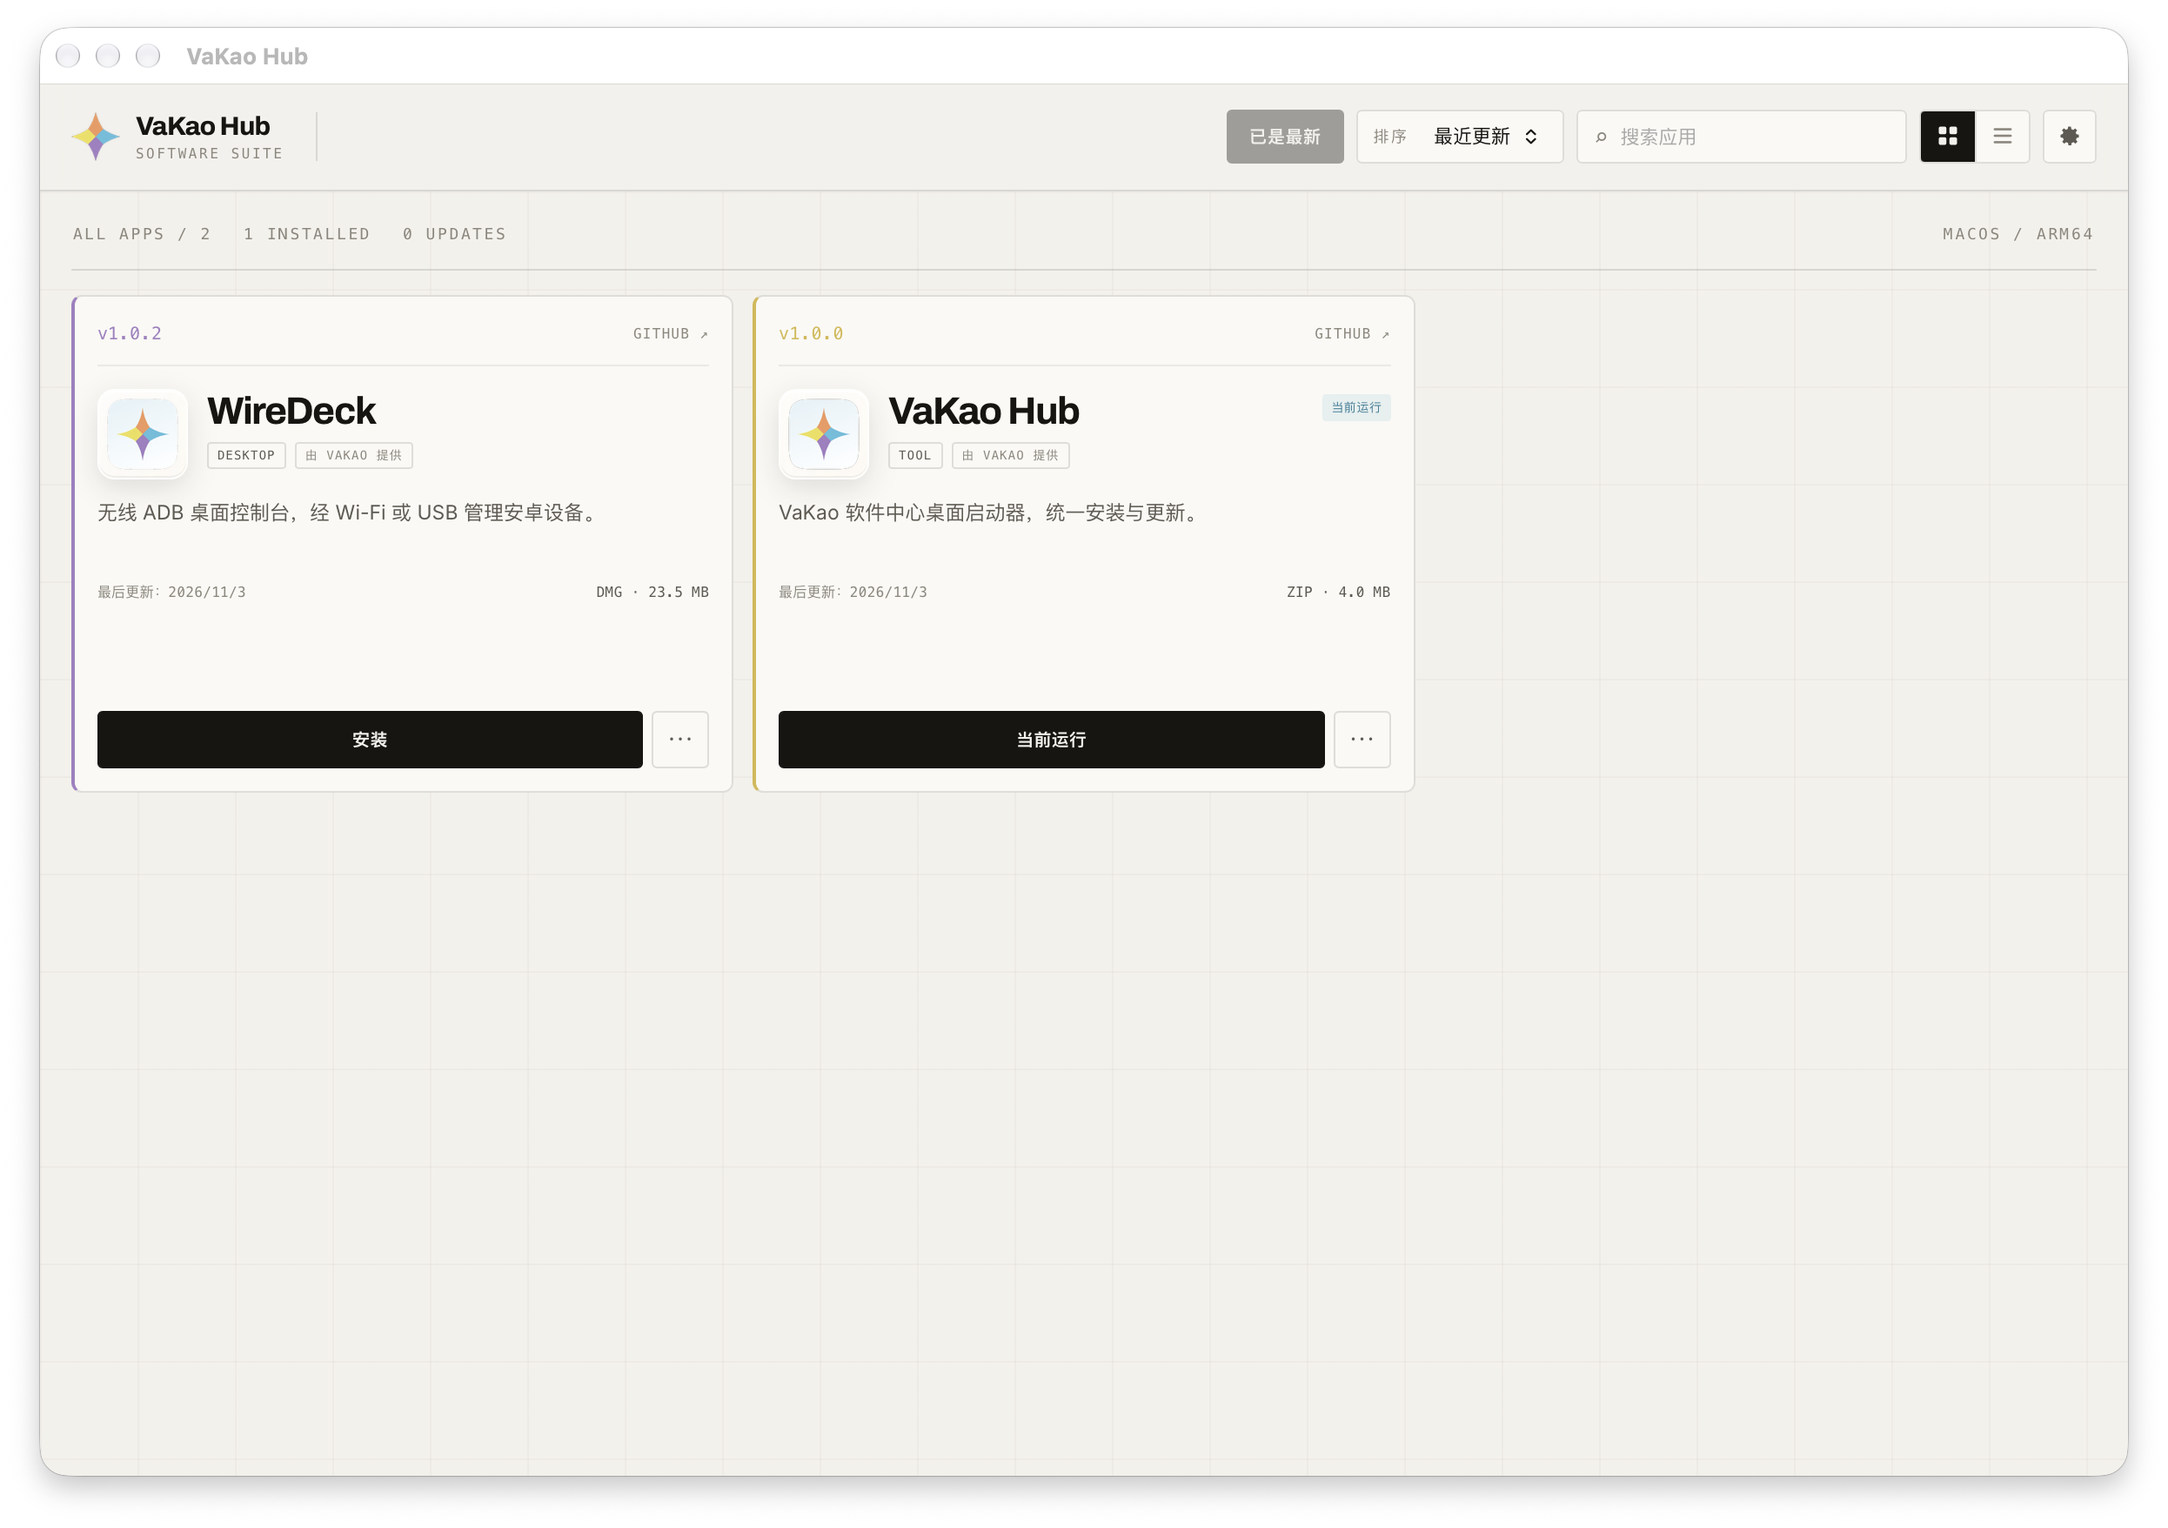
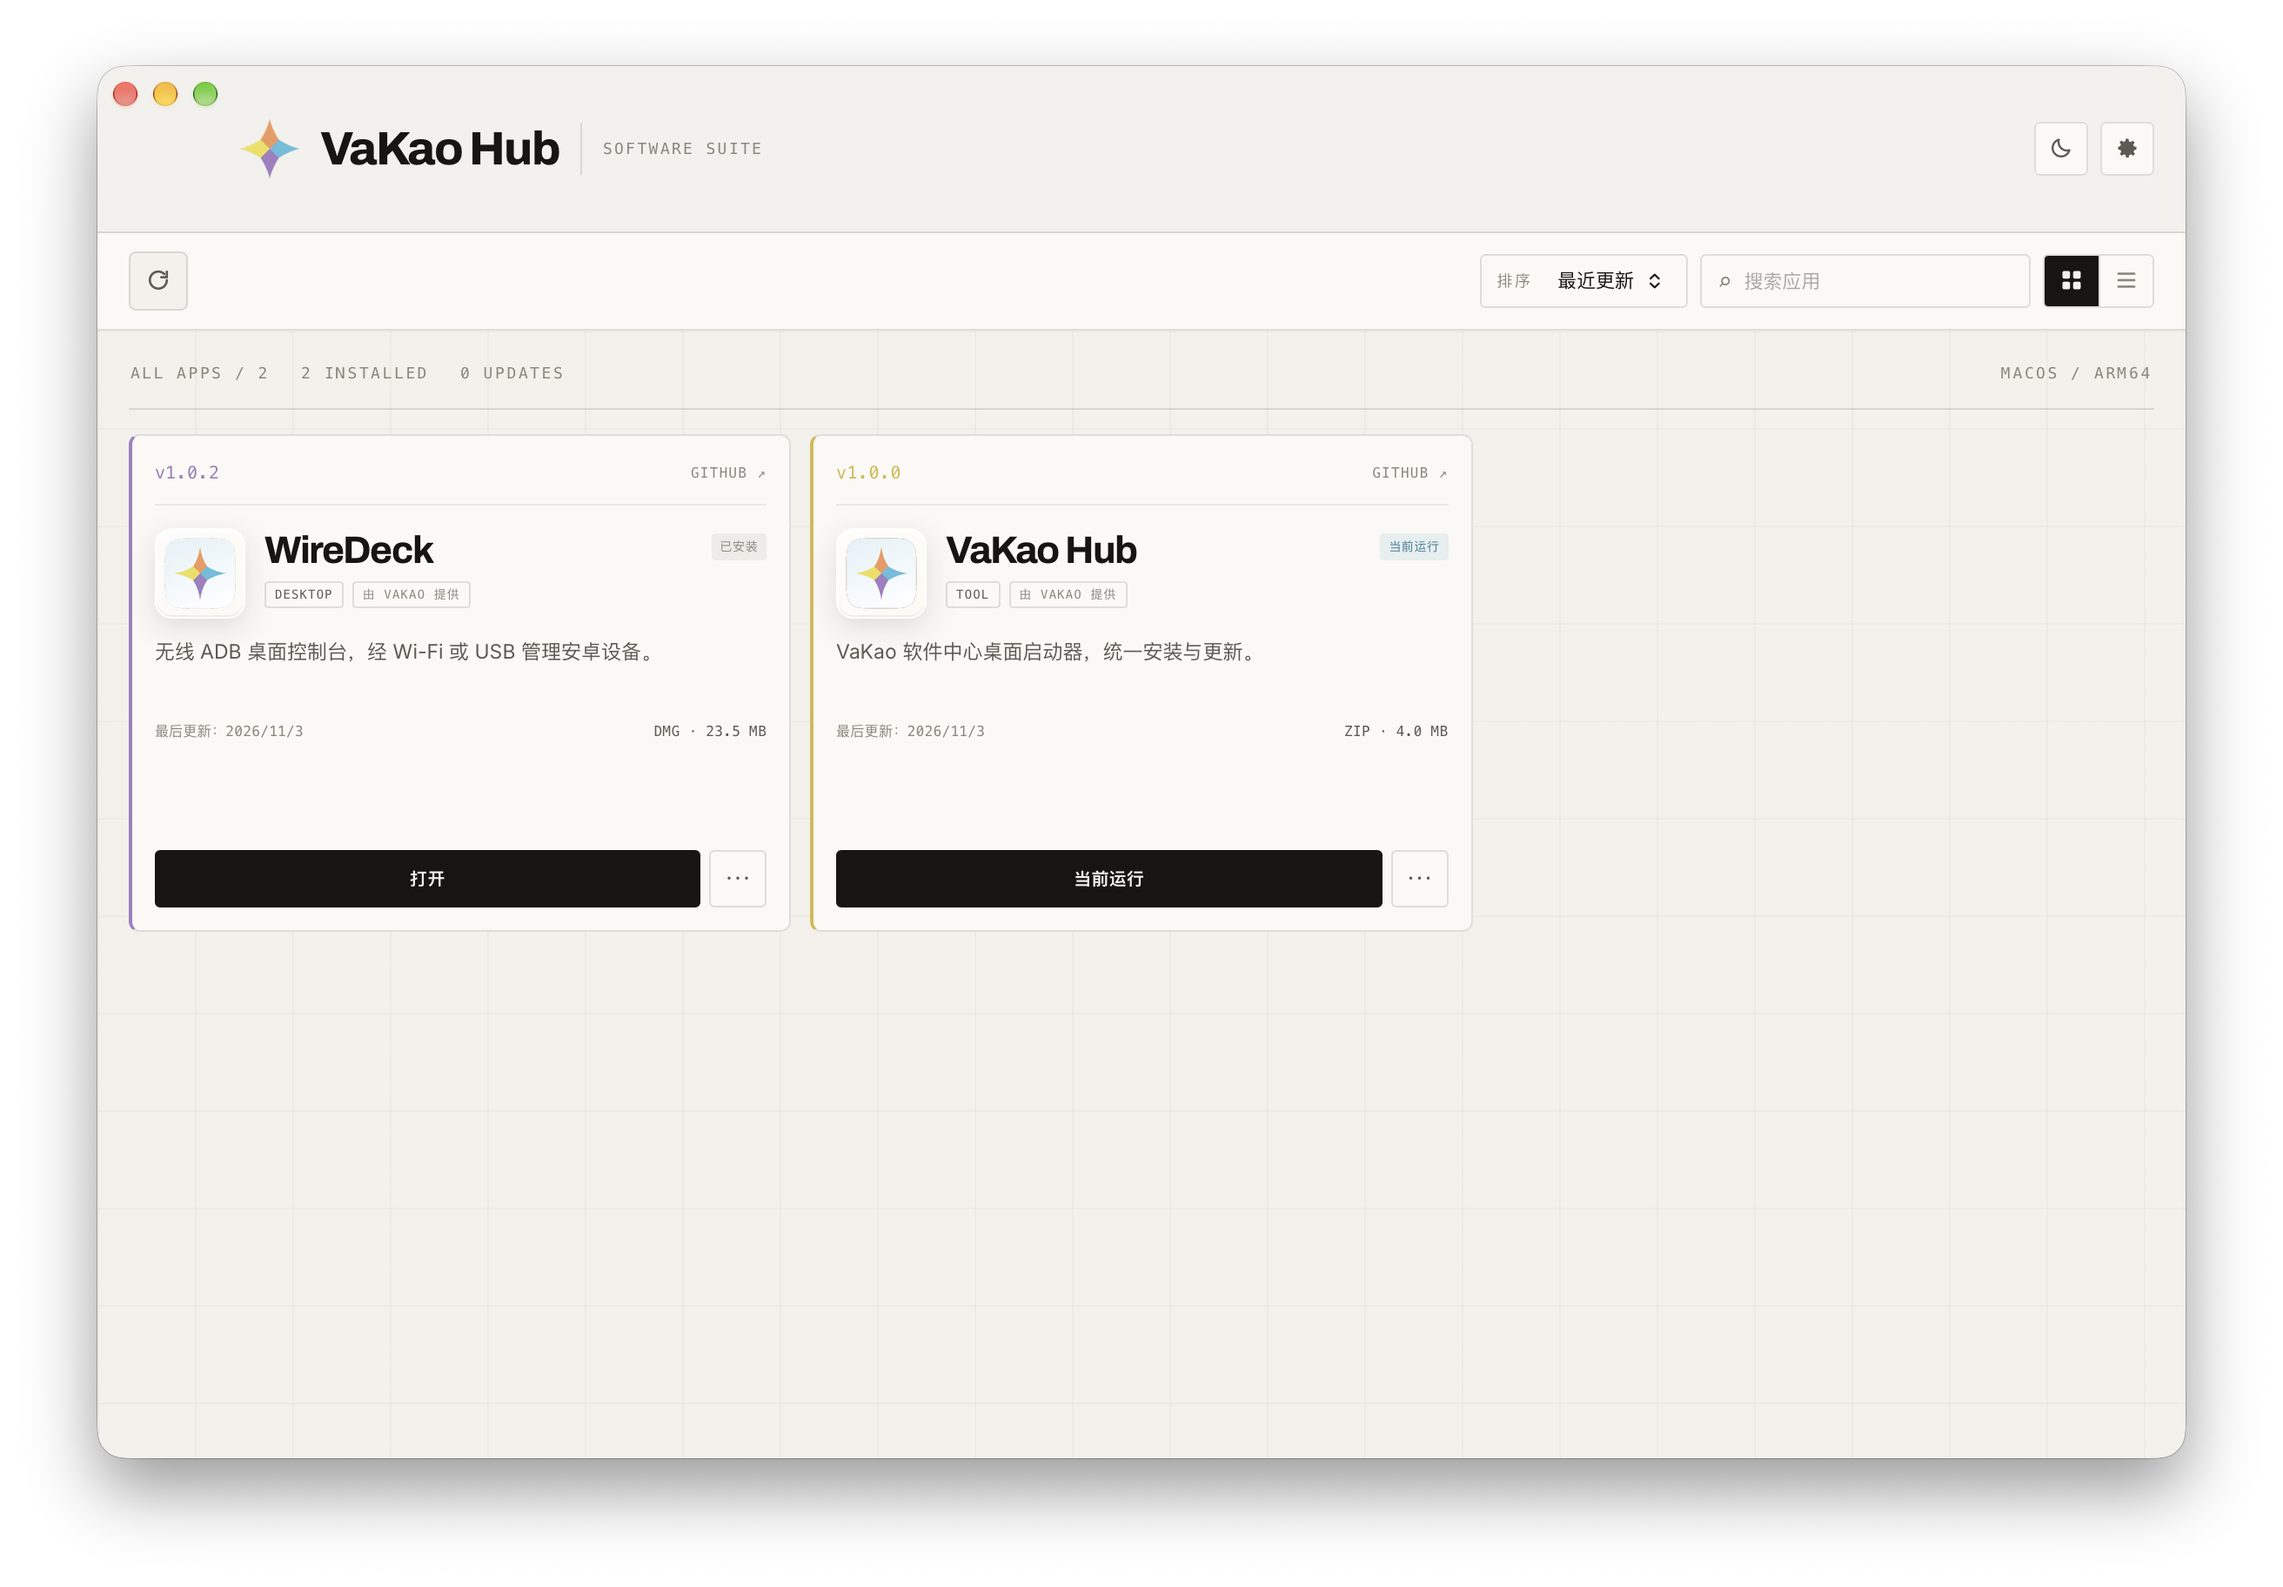
style(launcher): split masthead and toolbar like reference

diff --git a/packages/launcher/frontend/src/App.vue b/packages/launcher/frontend/src/App.vue
@@ -1,23 +1,56 @@
 <template>
   <div class="shell">
-    <header class="topbar">
+    <header class="masthead">
       <div class="brand">
         <img :src="starUrl" class="brand-star" alt="" />
         <div class="brand-name">
           <strong>VaKao Hub</strong>
-          <span>SOFTWARE SUITE</span>
         </div>
+        <span class="brand-divider" aria-hidden="true"></span>
+        <span class="brand-tag">SOFTWARE SUITE</span>
       </div>
 
-      <div class="toolbar">
+      <div class="masthead-actions">
         <button
-          class="update-all"
-          :disabled="!updateCount || updatingAll"
-          @click="updateAll"
+          class="icon-btn theme-toggle"
+          :title="theme === 'dark' ? '切换到浅色' : '切换到深色'"
+          :aria-label="theme === 'dark' ? '切换到浅色' : '切换到深色'"
+          @click="toggleTheme"
         >
-          {{ updatingAll ? '更新中…' : updateCount ? `全部更新 (${updateCount})` : '已是最新' }}
+          <svg v-if="theme === 'dark'" viewBox="0 0 16 16" aria-hidden="true">
+            <circle cx="8" cy="8" r="3.1" />
+            <path d="M8 1.4v1.7M8 12.9v1.7M1.4 8h1.7M12.9 8h1.7M3.3 3.3l1.2 1.2M11.5 11.5l1.2 1.2M12.7 3.3l-1.2 1.2M4.5 11.5l-1.2 1.2" />
+          </svg>
+          <svg v-else viewBox="0 0 16 16" aria-hidden="true">
+            <path d="M13.4 9.5A5.6 5.6 0 0 1 6.5 2.6 5.6 5.6 0 1 0 13.4 9.5Z" />
+          </svg>
         </button>
 
+        <button class="icon-btn" title="设置" @click="openSettings">
+          <svg viewBox="0 0 16 16" aria-hidden="true">
+            <path d="M8 5.2A2.8 2.8 0 1 0 8 10.8 2.8 2.8 0 0 0 8 5.2Zm6 3.9v-1.8l-1.6-.3a4.7 4.7 0 0 0-.5-1.2l1-1.3-1.3-1.3-1.3 1a4.7 4.7 0 0 0-1.2-.5L8.8 2H7l-.3 1.6a4.7 4.7 0 0 0-1.2.5l-1.3-1L2.9 4.4l1 1.3a4.7 4.7 0 0 0-.5 1.2L2 7.3v1.8l1.6.3c.1.4.3.9.5 1.2l-1 1.3 1.3 1.3 1.3-1c.4.2.8.4 1.2.5l.3 1.6h1.8l.3-1.6c.4-.1.9-.3 1.2-.5l1.3 1 1.3-1.3-1-1.3c.2-.4.4-.8.5-1.2l1.6-.3Z" />
+          </svg>
+        </button>
+      </div>
+    </header>
+
+    <section class="toolbar-row">
+      <button class="refresh-btn" title="刷新目录" :disabled="loading" @click="load">
+        <svg viewBox="0 0 16 16" aria-hidden="true">
+          <path d="M13.2 8a5.2 5.2 0 1 1-1.6-3.8M13.2 2.8v3.4H9.8" />
+        </svg>
+      </button>
+
+      <button
+        v-if="updateCount"
+        class="update-all"
+        :disabled="updatingAll"
+        @click="updateAll"
+      >
+        {{ updatingAll ? '更新中…' : `全部更新 (${updateCount})` }}
+      </button>
+
+      <div class="toolbar">
         <label class="sort">
           <span class="hud">排序</span>
           <select v-model="sortBy">
@@ -49,29 +82,8 @@
             </svg>
           </button>
         </div>
-
-        <button
-          class="icon-btn theme-toggle"
-          :title="theme === 'dark' ? '切换到浅色' : '切换到深色'"
-          :aria-label="theme === 'dark' ? '切换到浅色' : '切换到深色'"
-          @click="toggleTheme"
-        >
-          <svg v-if="theme === 'dark'" viewBox="0 0 16 16" aria-hidden="true">
-            <circle cx="8" cy="8" r="3.1" />
-            <path d="M8 1.4v1.7M8 12.9v1.7M1.4 8h1.7M12.9 8h1.7M3.3 3.3l1.2 1.2M11.5 11.5l1.2 1.2M12.7 3.3l-1.2 1.2M4.5 11.5l-1.2 1.2" />
-          </svg>
-          <svg v-else viewBox="0 0 16 16" aria-hidden="true">
-            <path d="M13.4 9.5A5.6 5.6 0 0 1 6.5 2.6 5.6 5.6 0 1 0 13.4 9.5Z" />
-          </svg>
-        </button>
-
-        <button class="icon-btn" title="设置" @click="openSettings">
-          <svg viewBox="0 0 16 16" aria-hidden="true">
-            <path d="M8 5.2A2.8 2.8 0 1 0 8 10.8 2.8 2.8 0 0 0 8 5.2Zm6 3.9v-1.8l-1.6-.3a4.7 4.7 0 0 0-.5-1.2l1-1.3-1.3-1.3-1.3 1a4.7 4.7 0 0 0-1.2-.5L8.8 2H7l-.3 1.6a4.7 4.7 0 0 0-1.2.5l-1.3-1L2.9 4.4l1 1.3a4.7 4.7 0 0 0-.5 1.2L2 7.3v1.8l1.6.3c.1.4.3.9.5 1.2l-1 1.3 1.3 1.3 1.3-1c.4.2.8.4 1.2.5l.3 1.6h1.8l.3-1.6c.4-.1.9-.3 1.2-.5l1.3 1 1.3-1.3-1-1.3c.2-.4.4-.8.5-1.2l1.6-.3Z" />
-          </svg>
-        </button>
       </div>
-    </header>
+    </section>
 
     <main class="content">
       <div class="catalog-meta">

diff --git a/packages/launcher/frontend/src/style.css b/packages/launcher/frontend/src/style.css
@@ -97,37 +97,37 @@ button {
 
 /* ---------- topbar ---------- */
 
-.topbar {
+.masthead {
   display: flex;
   align-items: center;
   justify-content: space-between;
   gap: 18px;
   flex: none;
-  height: 72px;
-  padding: 10px 18px 0 82px;
+  height: 96px;
+  padding: 0 18px 0 82px;
   border-bottom: 1px solid var(--line);
   background: rgba(243, 241, 236, 0.92);
   backdrop-filter: blur(10px);
   --wails-draggable: drag;
 }
 
-.toolbar,
-.toolbar * {
+.masthead-actions {
+  display: flex;
+  align-items: center;
+  gap: 7px;
   --wails-draggable: no-drag;
 }
 
 .brand {
   display: flex;
   align-items: center;
-  gap: 9px;
+  gap: 12px;
   min-width: 0;
-  padding-right: 18px;
-  border-right: 1px solid var(--line);
 }
 
 .brand-star {
-  width: 28px;
-  height: 28px;
+  width: 34px;
+  height: 34px;
   object-fit: contain;
   flex: none;
 }
@@ -135,22 +135,85 @@ button {
 .brand-name {
   display: flex;
   flex-direction: column;
-  line-height: 1.1;
+  line-height: 1;
 }
 
 .brand-name strong {
   font-family: var(--display);
-  font-size: 15px;
-  font-weight: 750;
-  letter-spacing: -0.025em;
+  font-size: 27px;
+  font-weight: 760;
+  letter-spacing: -0.035em;
 }
 
-.brand-name span {
-  margin-top: 3px;
+.brand-divider {
+  width: 1px;
+  height: 30px;
+  flex: none;
+  background: var(--line);
+}
+
+.brand-tag {
   font-family: var(--mono);
-  font-size: 8px;
-  letter-spacing: 0.16em;
+  font-size: 9px;
+  letter-spacing: 0.13em;
   color: var(--faint);
+  white-space: nowrap;
+}
+
+.toolbar-row {
+  display: flex;
+  align-items: center;
+  gap: 9px;
+  flex: none;
+  height: 56px;
+  padding: 0 18px;
+  border-bottom: 1px solid var(--line);
+  background: var(--raised);
+  --wails-draggable: no-drag;
+}
+
+.toolbar-row .toolbar {
+  margin-left: auto;
+}
+
+.toolbar {
+  display: flex;
+  align-items: center;
+  gap: 7px;
+  min-width: 0;
+}
+
+.refresh-btn {
+  display: inline-flex;
+  align-items: center;
+  justify-content: center;
+  width: 34px;
+  height: 34px;
+  flex: none;
+  border: 1px solid var(--line);
+  border-radius: 4px;
+  background: var(--paper);
+  color: var(--muted);
+}
+
+.refresh-btn:hover {
+  border-color: var(--ink);
+  color: var(--ink);
+}
+
+.refresh-btn:disabled {
+  opacity: 0.4;
+  cursor: default;
+}
+
+.refresh-btn svg {
+  width: 15px;
+  height: 15px;
+  fill: none;
+  stroke: currentColor;
+  stroke-width: 1.4;
+  stroke-linecap: round;
+  stroke-linejoin: round;
 }
 
 .toolbar {
@@ -1648,7 +1711,8 @@ button {
   background: var(--paper);
 }
 
-[data-theme='dark'] .topbar {
+[data-theme='dark'] .masthead,
+[data-theme='dark'] .toolbar-row {
   background: rgba(18, 18, 16, 0.9);
 }
 
@@ -1733,4 +1797,25 @@ button {
 
 [data-theme='dark'] .theme-toggle {
   color: var(--muted);
+}
+
+
+@media (max-width: 760px) {
+  .masthead {
+    padding-left: 18px;
+  }
+
+  .brand-tag,
+  .brand-divider {
+    display: none;
+  }
+
+  .toolbar-row {
+    gap: 6px;
+    padding: 0 12px;
+  }
+
+  .toolbar-row .search {
+    width: 150px;
+  }
 }

diff --git a/packages/website/index.html b/packages/website/index.html
@@ -66,7 +66,7 @@
           <div class="hero-visual" aria-hidden="true">
             <div class="visual-grid"></div>
             <div class="window">
-              <img src="./assets/screens/launcher.png?v=20261103k" alt="" />
+              <img src="./assets/screens/launcher.png?v=20261103l" alt="" />
             </div>
             <div class="float-card">
               <span class="hud">LIVE / CATALOG</span>
@@ -183,7 +183,7 @@
             <a class="button" href="#apps">下载启动器 <span aria-hidden="true">↗</span></a>
           </div>
           <figure class="inside-visual">
-            <img src="./assets/screens/launcher.png?v=20261103k" alt="VaKao Hub 启动器界面" />
+            <img src="./assets/screens/launcher.png?v=20261103l" alt="VaKao Hub 启动器界面" />
           </figure>
         </section>
       </main>
